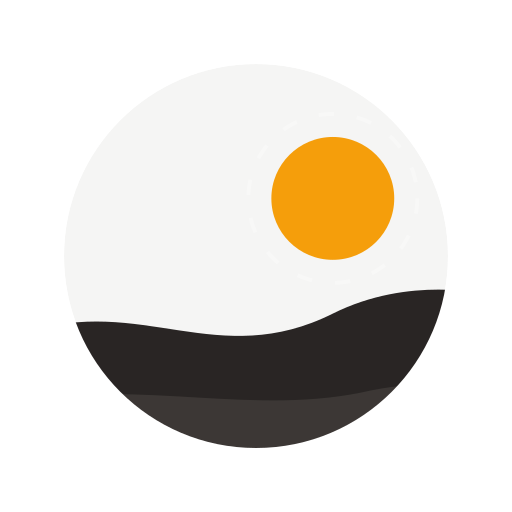
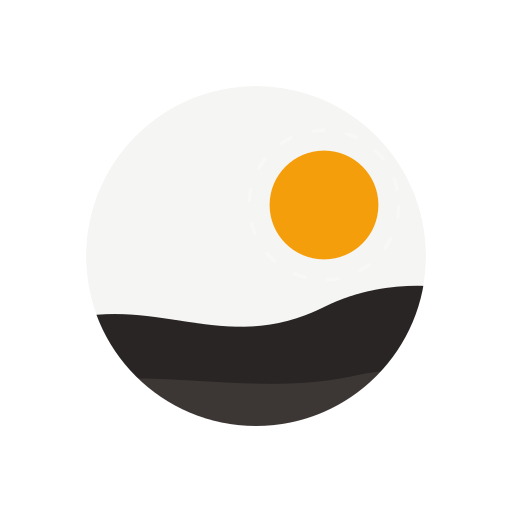
Updates

diff --git a/sw.js b/sw.js
@@ -1,1 +1,1 @@
-if(!self.define){let e,s={};const n=(n,i)=>(n=new URL(n+".js",i).href,s[n]||new Promise(s=>{if("document"in self){const e=document.createElement("script");e.src=n,e.onload=s,document.head.appendChild(e)}else e=n,importScripts(n),s()}).then(()=>{let e=s[n];if(!e)throw new Error(`Module ${n} didn’t register its module`);return e}));self.define=(i,t)=>{const o=e||("document"in self?document.currentScript.src:"")||location.href;if(s[o])return;let c={};const r=e=>n(e,o),l={module:{uri:o},exports:c,require:r};s[o]=Promise.all(i.map(e=>l[e]||r(e))).then(e=>(t(...e),c))}}define(["./workbox-1d305bb8"],function(e){"use strict";self.skipWaiting(),e.clientsClaim(),e.precacheAndRoute([{url:"registerSW.js",revision:"8588299738a658cb53c961c81c00c528"},{url:"index.html",revision:"fbbf735f15467df0d58f675a521ced22"},{url:"icon-512.png",revision:"60a6bd184804aaef651d431c9e9e6a85"},{url:"icon-192.png",revision:"66a5baed55cde7c57fdc6e1c7cb76806"},{url:"assets/index-DF5FoNjo.js",revision:null},{url:"assets/favicon-sz7zFTY-.svg",revision:null},{url:"manifest.webmanifest",revision:"8569598fc303d6b4a2f3195da3938336"}],{}),e.cleanupOutdatedCaches(),e.registerRoute(new e.NavigationRoute(e.createHandlerBoundToURL("index.html"))),e.registerRoute(/^https:\/\/picsum\.photos\/.*/i,new e.CacheFirst({cacheName:"picsum-images",plugins:[new e.ExpirationPlugin({maxEntries:50,maxAgeSeconds:2592e3}),new e.CacheableResponsePlugin({statuses:[0,200]})]}),"GET"),e.registerRoute(/^https:\/\/fonts\.googleapis\.com\/.*/i,new e.CacheFirst({cacheName:"google-fonts-stylesheets",plugins:[new e.ExpirationPlugin({maxEntries:10,maxAgeSeconds:31536e3})]}),"GET"),e.registerRoute(/^https:\/\/fonts\.gstatic\.com\/.*/i,new e.CacheFirst({cacheName:"google-fonts-webfonts",plugins:[new e.ExpirationPlugin({maxEntries:10,maxAgeSeconds:31536e3})]}),"GET")});
+if(!self.define){let e,s={};const n=(n,i)=>(n=new URL(n+".js",i).href,s[n]||new Promise(s=>{if("document"in self){const e=document.createElement("script");e.src=n,e.onload=s,document.head.appendChild(e)}else e=n,importScripts(n),s()}).then(()=>{let e=s[n];if(!e)throw new Error(`Module ${n} didn’t register its module`);return e}));self.define=(i,t)=>{const o=e||("document"in self?document.currentScript.src:"")||location.href;if(s[o])return;let c={};const r=e=>n(e,o),l={module:{uri:o},exports:c,require:r};s[o]=Promise.all(i.map(e=>l[e]||r(e))).then(e=>(t(...e),c))}}define(["./workbox-1d305bb8"],function(e){"use strict";self.skipWaiting(),e.clientsClaim(),e.precacheAndRoute([{url:"registerSW.js",revision:"8588299738a658cb53c961c81c00c528"},{url:"index.html",revision:"fbbf735f15467df0d58f675a521ced22"},{url:"icon-512.png",revision:"497754c98e26e84132d5df58611ce181"},{url:"icon-192.png",revision:"c70ce389458b917e7dd1ce7cda031328"},{url:"assets/index-DF5FoNjo.js",revision:null},{url:"assets/favicon-sz7zFTY-.svg",revision:null},{url:"manifest.webmanifest",revision:"8569598fc303d6b4a2f3195da3938336"}],{}),e.cleanupOutdatedCaches(),e.registerRoute(new e.NavigationRoute(e.createHandlerBoundToURL("index.html"))),e.registerRoute(/^https:\/\/picsum\.photos\/.*/i,new e.CacheFirst({cacheName:"picsum-images",plugins:[new e.ExpirationPlugin({maxEntries:50,maxAgeSeconds:2592e3}),new e.CacheableResponsePlugin({statuses:[0,200]})]}),"GET"),e.registerRoute(/^https:\/\/fonts\.googleapis\.com\/.*/i,new e.CacheFirst({cacheName:"google-fonts-stylesheets",plugins:[new e.ExpirationPlugin({maxEntries:10,maxAgeSeconds:31536e3})]}),"GET"),e.registerRoute(/^https:\/\/fonts\.gstatic\.com\/.*/i,new e.CacheFirst({cacheName:"google-fonts-webfonts",plugins:[new e.ExpirationPlugin({maxEntries:10,maxAgeSeconds:31536e3})]}),"GET")});
